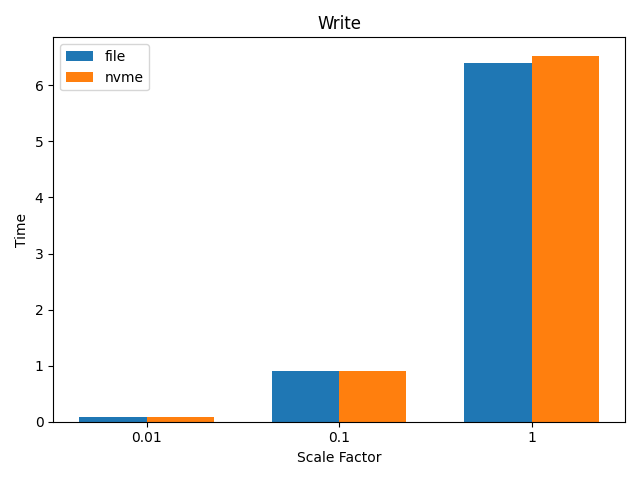
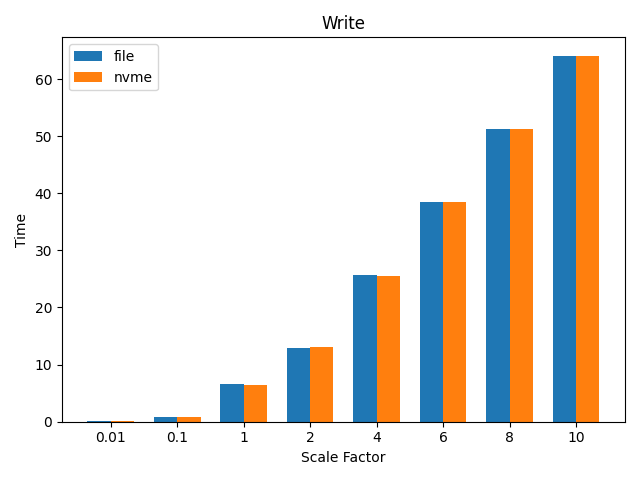
Fixed Lock issue.
Changed the QueuePool and QueueWrapper setup, only QueueWrapper should
maintain locking. Also, this branch here is writing full DuckDB Blocks
to disk. We should create another branch testing out mdts Blocks too.

diff --git a/src/storage/queue_pool.cpp b/src/storage/queue_pool.cpp
@@ -7,44 +7,43 @@ namespace duckdb {
 
 QueuePool::QueuePool(struct xnvme_dev *dev, int pool_size, uint16_t qdepth) {
 	for (int i = 0; i < pool_size; ++i) {
-		// struct xnvme_queue *q;
-		// int ret = xnvme_queue_init(dev, qdepth, 0, &q);
-		// if (ret) {
-		// 	xnvme_cli_perr("xnvme_queue_init()", errno);
-		// 	return;
-		// }
 		queues.push_back(make_uniq<QueueWrapper>(dev, qdepth, i));
 	}
 }
 
-QueueWrapper *QueuePool::GetAvailableQueue() {
+QueueWrapper *QueuePool::SubmitRead(xnvme_dev *dev, uint64_t lba_location, uint16_t amount, data_ptr_t payload) {
 	while (true) {
 		for (auto &qwrap_ptr : queues) {
-			auto &qwrap = *qwrap_ptr;
-			if (qwrap.TryLock()) {
+			if (qwrap_ptr->SubmitRead(dev, lba_location, amount, payload) == 0) {
+				auto &qwrap = *qwrap_ptr;
 				return &qwrap;
 			}
 		}
+	}
+}
 
+QueueWrapper *QueuePool::SubmitWrite(xnvme_dev *dev, uint64_t lba_location, uint16_t amount, data_ptr_t payload) {
+	while (true) {
 		for (auto &qwrap_ptr : queues) {
-			auto &qwrap = *qwrap_ptr;
-			qwrap.Poke();
+			if (qwrap_ptr->SubmitWrite(dev, lba_location, amount, payload) == 0) {
+				auto &qwrap = *qwrap_ptr;
+				return &qwrap;
+			} else {
+				qwrap_ptr->Poke();
+			}
 		}
 	}
-	return nullptr;
 }
 
 void QueuePool::Close() {
 	for (auto &qwrap_ptr : queues) {
-		auto &qwrap = *qwrap_ptr;
-		qwrap.Close();
+		qwrap_ptr->Close();
 	}
 }
 
 void QueuePool::Sync() {
 	for (auto &qwrap_ptr : queues) {
-		auto &qwrap = *qwrap_ptr;
-		qwrap.Drain();
+		qwrap_ptr->Sync();
 	}
 }
 
@@ -64,7 +63,7 @@ void QueueWrapper::Release() {
 }
 
 bool QueueWrapper::TryLock() {
-	if (mtx.try_lock()) {
+	if (queue && mtx.try_lock()) {
 		if (args.inflight < qdepth) {
 			return true;
 		} else {
@@ -79,71 +78,84 @@ int QueueWrapper::GetID() {
 	return id;
 }
 
-int QueueWrapper::Drain() {
-	return xnvme_queue_drain(queue);
-}
-
 void QueueWrapper::Poke() {
 	xnvme_queue_poke(queue, 0);
 }
 
-int QueueWrapper::SubmitRead(xnvme_dev *dev, uint64_t lba_location, uint16_t amount, data_ptr_t payload) {
-	struct xnvme_cmd_ctx *ctx = xnvme_queue_get_cmd_ctx(queue);
-	int err;
-
-submit:
-	err = xnvme_nvm_read(ctx, xnvme_dev_get_nsid(dev), lba_location, amount, payload, nullptr);
-	switch (err) {
-	case 0:
-		args.submitted++;
-		args.inflight++;
-		break;
-
-	case -EBUSY:
-	case -EAGAIN:
-		xnvme_queue_poke(queue, 0);
-		goto submit;
-
-	default:
-		xnvme_cli_perr("xnvme_nvm_read()", err);
+void QueueWrapper::Sync() {
+	if (queue) {
+		Drain();
 	}
-	return err;
 }
-int QueueWrapper::SubmitWrite(xnvme_dev *dev, uint64_t lba_location, uint16_t amount, data_ptr_t payload) {
-	struct xnvme_cmd_ctx *ctx = xnvme_queue_get_cmd_ctx(queue);
-	int err;
 
-submit:
-	err = xnvme_nvm_write(ctx, xnvme_dev_get_nsid(dev), lba_location, amount, payload, nullptr);
-	switch (err) {
-	case 0:
-		args.submitted++;
-		args.inflight++;
-		break;
-
-	case -EBUSY:
-	case -EAGAIN:
-		xnvme_queue_poke(queue, 0);
-		goto submit;
-
-	default:
-		xnvme_cli_perr("xnvme_nvm_read()", err);
+int QueueWrapper::Drain() {
+	if (queue) {
+		while (true) {
+			if (TryLock()) {
+				auto res = xnvme_queue_drain(queue);
+				Release();
+				return res;
+			}
+		}
 	}
-	return err;
+
+	return 0;
 }
 
 void QueueWrapper::Close() {
 	if (queue) {
-		xnvme_queue_term(queue);
-		queue = nullptr;
+		while (true) {
+			if (TryLock()) {
+				xnvme_queue_term(queue);
+				queue = nullptr;
+				Release();
+				return;
+			}
+		}
 	}
 }
 
-QueueWrapper::~QueueWrapper() {
+int QueueWrapper::SubmitRead(xnvme_dev *dev, uint64_t lba_location, uint16_t amount, data_ptr_t payload) {
 	if (queue) {
-		xnvme_queue_term(queue);
-		queue = nullptr;
+		if (TryLock()) {
+			struct xnvme_cmd_ctx *ctx = xnvme_queue_get_cmd_ctx(queue);
+
+			int err = xnvme_nvm_read(ctx, xnvme_dev_get_nsid(dev), lba_location, amount, payload, nullptr);
+			if (err == 0) {
+				args.submitted++;
+				args.inflight++;
+			}
+
+			Release();
+			return err;
+		} else {
+			return -1;
+		}
 	}
+
+	return -1;
+}
+
+int QueueWrapper::SubmitWrite(xnvme_dev *dev, uint64_t lba_location, uint16_t amount, data_ptr_t payload) {
+	if (queue) {
+		if (TryLock()) {
+			struct xnvme_cmd_ctx *ctx = xnvme_queue_get_cmd_ctx(queue);
+
+			int err = xnvme_nvm_write(ctx, xnvme_dev_get_nsid(dev), lba_location, amount, payload, nullptr);
+			if (err == 0) {
+				args.submitted++;
+				args.inflight++;
+			}
+
+			Release();
+			return err;
+
+		} else {
+			return -1;
+		}
+	}
+
+	return -1;
 }
 
 } // namespace duckdb

diff --git a/src/common/file_buffer.cpp b/src/common/file_buffer.cpp
@@ -120,10 +120,6 @@ void FileBuffer::Read(xnvme_dev *dev, uint64_t location, QueuePool &qpool) {
 
 	// misc variables for xnvme use
 	QueueWrapper *qwrap;
-	while (!(qwrap = qpool.GetAvailableQueue())) {
-		std::this_thread::sleep_for(std::chrono::milliseconds(1));
-	}
-
 	int err = 0;
 	int ret = 0;
 
@@ -133,20 +129,19 @@ void FileBuffer::Read(xnvme_dev *dev, uint64_t location, QueuePool &qpool) {
 	auto lba_location = location / lba_size;
 	auto lbas_to_write = (internal_size / lba_size) - 1;
 
-	err = qwrap->SubmitRead(dev, lba_location, (uint16_t)lbas_to_write, internal_buffer);
+	qwrap = qpool.SubmitRead(dev, lba_location, (uint16_t)lbas_to_write, internal_buffer);
 	if (err) {
 		goto exit;
 	}
 
 	// all is submitted
-	ret = qwrap->Drain();
+	// ret = qwrap->Drain();
 	if (ret < 0) {
 		xnvme_cli_perr("xnvme_queue_drain()", ret);
 		goto exit;
 	}
 
 exit:
-	qwrap->Release();
 	return;
 }
 
@@ -160,9 +155,6 @@ void FileBuffer::Write(xnvme_dev *dev, uint64_t location, QueuePool &qpool) {
 
 	// misc variables for xnvme use
 	QueueWrapper *qwrap;
-	while (!(qwrap = qpool.GetAvailableQueue())) {
-		std::this_thread::sleep_for(std::chrono::milliseconds(1));
-	}
 	int err = 0;
 	int ret = 0;
 
@@ -172,19 +164,18 @@ void FileBuffer::Write(xnvme_dev *dev, uint64_t location, QueuePool &qpool) {
 	auto lba_location = location / lba_size;
 	auto lbas_to_write = (internal_size / lba_size) - 1;
 
-	err = qwrap->SubmitWrite(dev, lba_location, (uint16_t)lbas_to_write, internal_buffer);
+	qwrap = qpool.SubmitWrite(dev, lba_location, (uint16_t)lbas_to_write, internal_buffer);
 	if (err) {
 		goto exit;
 	}
 
-	ret = qwrap->Drain();
+	// ret = qwrap->Drain();
 	if (ret < 0) {
 		xnvme_cli_perr("xnvme_queue_drain()", ret);
 		goto exit;
 	}
 
 exit:
-	qwrap->Release();
 	return;
 }
 

diff --git a/src/include/duckdb/storage/queue_pool.hpp b/src/include/duckdb/storage/queue_pool.hpp
@@ -16,25 +16,31 @@ struct cb_args {
 
 class QueueWrapper {
 private:
-	struct xnvme_queue *queue;
-	std::mutex mtx;
 	int id;
-	struct cb_args args;
+	std::mutex mtx;
 	uint32_t qdepth;
+	struct xnvme_queue *queue;
+	struct cb_args args;
 
 public:
 	QueueWrapper(xnvme_dev *dev, uint16_t qdepth, int id);
-	void Release();
-	bool TryLock();
-	int SubmitRead(xnvme_dev *dev, uint64_t lba_location, uint16_t amount, data_ptr_t payload);
-	int SubmitWrite(xnvme_dev *dev, uint64_t lba_location, uint16_t amount, data_ptr_t payload);
+	~QueueWrapper() {
+		Close();
+	};
+
 	int GetID();
+	void Poke();
+	void Sync();
 	int Drain();
 	void Close();
-	void Poke();
-	~QueueWrapper();
+
+	int SubmitRead(xnvme_dev *dev, uint64_t lba_location, uint16_t amount, data_ptr_t payload);
+	int SubmitWrite(xnvme_dev *dev, uint64_t lba_location, uint16_t amount, data_ptr_t payload);
 
 protected:
+	bool TryLock();
+	void Release();
+
 	static void cb_func(struct xnvme_cmd_ctx *ctx, void *cb_arg) {
 		struct cb_args *cb_args = static_cast<struct cb_args *>(cb_arg);
 		cb_args->completed++;
@@ -50,11 +56,14 @@ public:
 	~QueuePool() {
 		Close();
 	};
-	QueueWrapper *GetAvailableQueue();
-	void Close();
+
+	QueueWrapper *SubmitRead(xnvme_dev *dev, uint64_t lba_location, uint16_t amount, data_ptr_t payload);
+	QueueWrapper *SubmitWrite(xnvme_dev *dev, uint64_t lba_location, uint16_t amount, data_ptr_t payload);
+
 	void Sync();
 
 private:
+	void Close();
 	static int nr_of_queues;
 	std::vector<unique_ptr<QueueWrapper>> queues;
 };

diff --git a/thesis_testing/test.py b/thesis_testing/test.py
@@ -17,8 +17,8 @@ file_db = cur_dir / "test.db"
 nvme_db = "/dev/nvme1n1"
 
 # test meta information
-test_amount = 1
-test_scales = [0.01, 0.1, 1]
+test_amount = 5
+test_scales = [0.01, 0.1, 1, 2, 4, 6, 8, 10]
 
 # these are the builds of DuckDB we need for testing
 duckdb_file = cur_dir / "builds/duckdb_file"
@@ -59,8 +59,8 @@ class Tester:
         Get the result from the internal timers.
         """
 
-        print("read:  ", self._read_times)
-        print("write: ", self._write_times)
+        # print("read:  ", self._read_times)
+        # print("write: ", self._write_times)
 
         read = statistics.mean(self._read_times)
         write = statistics.mean(self._write_times)
